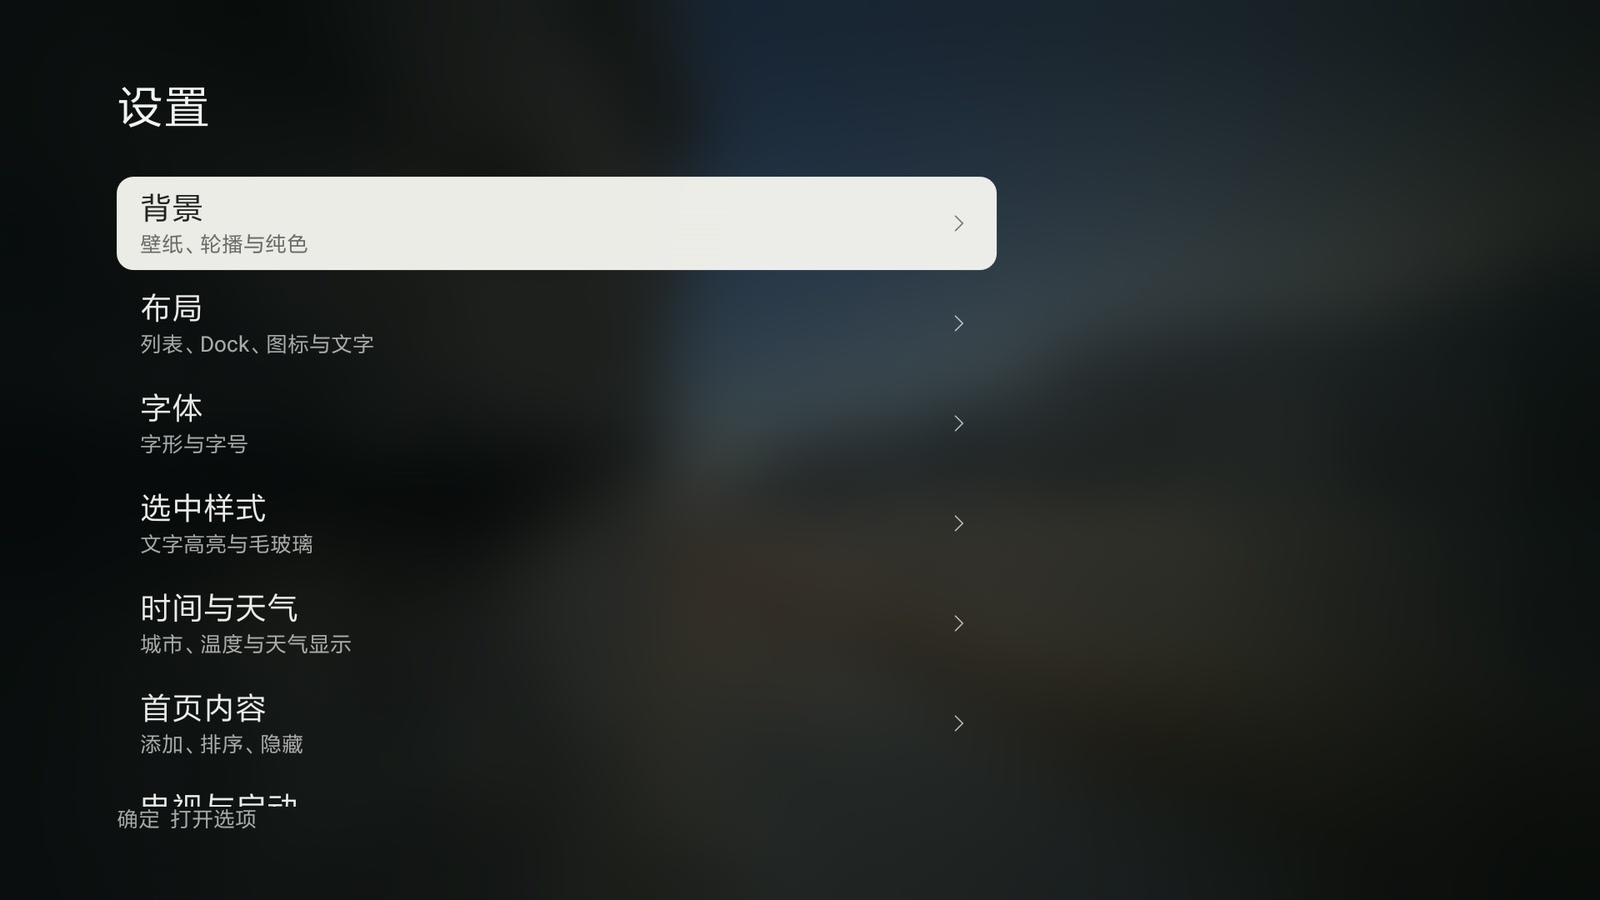
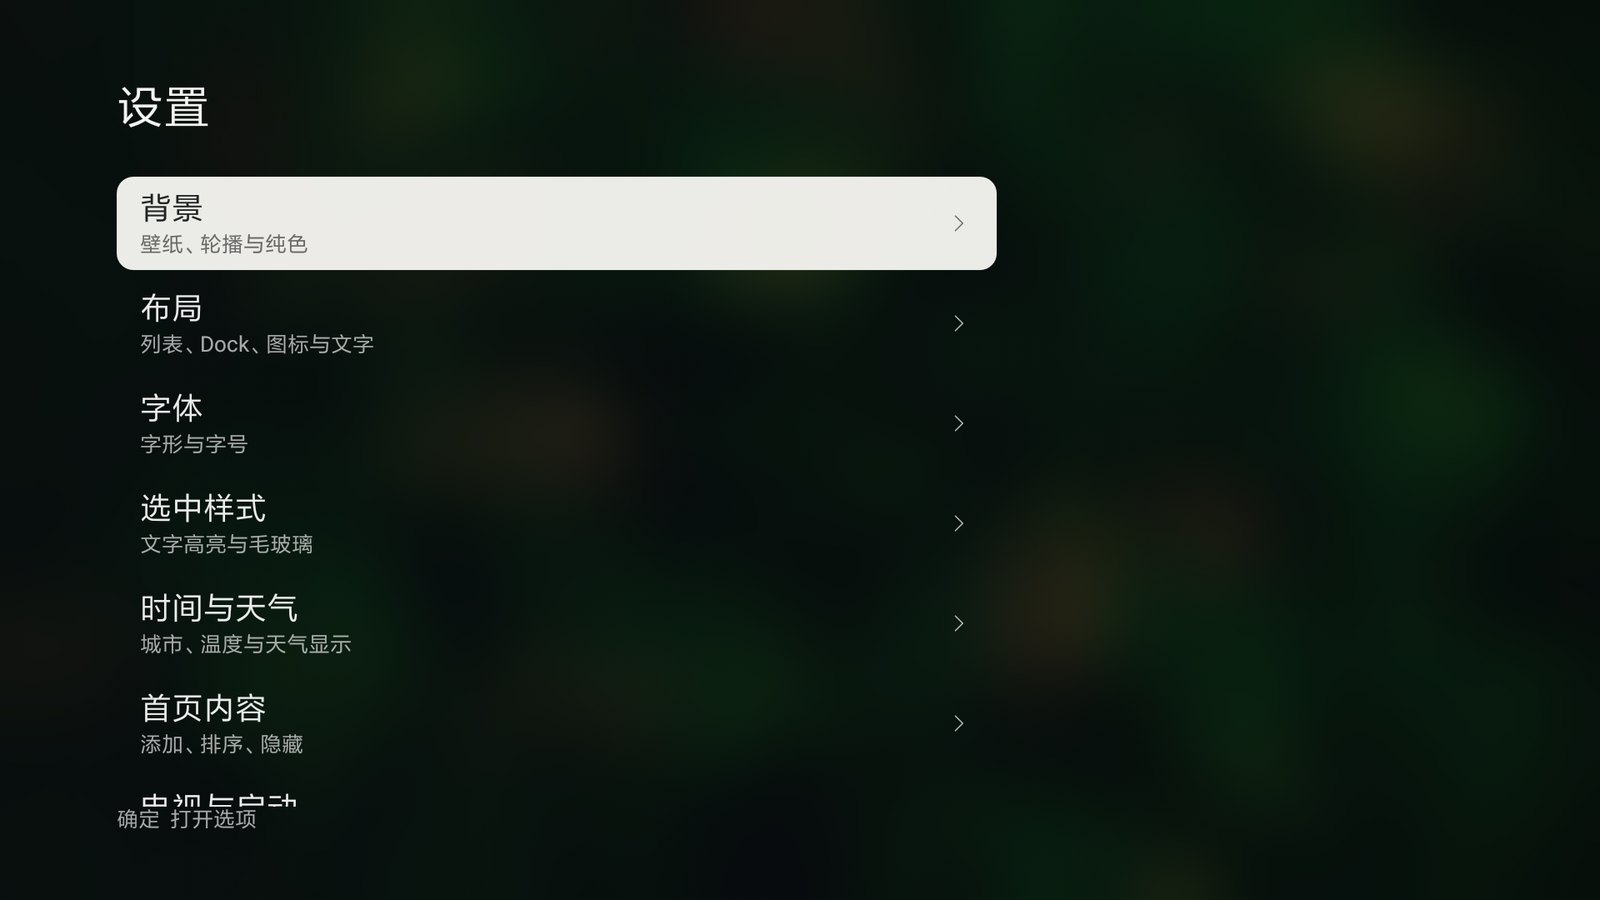
chore(release): v0.4.3

diff --git a/README.md b/README.md
@@ -347,9 +347,9 @@ export JKTV_KEY_PASSWORD=******
 
 ## 截图说明
 
-文中截图在真机（MiTV4-ANSM0 / Android 6.0.1）上抓取，壁纸用的是内置的「雅丹层岩」。图里出现的目录与文件是临时造的演示素材：`Sample Photos` 里是同一批自拍照片，`Sample Videos` 是这些照片生成的五秒推拉镜头。不含第三方影视内容、真人肖像或任何个人文件。
+文中截图在真机（MiTV4-ANSM0 / Android 6.0.1）上抓取，壁纸用的是内置的「热带绿叶」。图里出现的目录与文件是临时造的演示素材：`Sample Photos` 里是同一批自拍照片，`Sample Videos` 是这些照片生成的五秒推拉镜头。不含第三方影视内容、真人肖像或任何个人文件。
 
-截图里的入口名（`移动存储 1`、`内部存储`、`Movies`）是运行时探测存储卷后自动生成的，每个人的机器上不一样。嫌自动名不好看可以改：**设置 → 首页内容 → 选中入口 → 重命名**，名字里带「电影／视频」或「照片／相册」时左侧图标会跟着换成摄像机或照片。
+截图里的入口名（`电影动画`、`家庭照片`、`机顶盒`）是演示时自己起的；没改过名的入口按存储卷自动命名（`移动存储 1`、`移动存储 2`、`内部存储`），每个人的机器上不一样。嫌自动名不好看可以改：**设置 → 首页内容 → 选中入口 → 重命名**，名字里带「电影／视频」或「照片／相册」时左侧图标会跟着换成摄像机或照片，带「游戏」是手柄、其余 HDMI 是显示器。改过头了还能「恢复自动名称」。
 
 入口也可以只指向一个子目录，不必是整块盘：**选中入口 → 更换目录 → 浏览 移动存储 1**，一层层点进去，到地方按「选这个文件夹」。添加文件夹时走的是同一个浏览器，所以「首页只看动画那个目录」和「首页放整块盘」都能摆得出来。
 

diff --git a/CHANGELOG.md b/CHANGELOG.md
@@ -6,7 +6,7 @@
 
 ---
 
-## [未发布]
+## [v0.4.3] — 2026-11-01
 
 ### 修复
 
